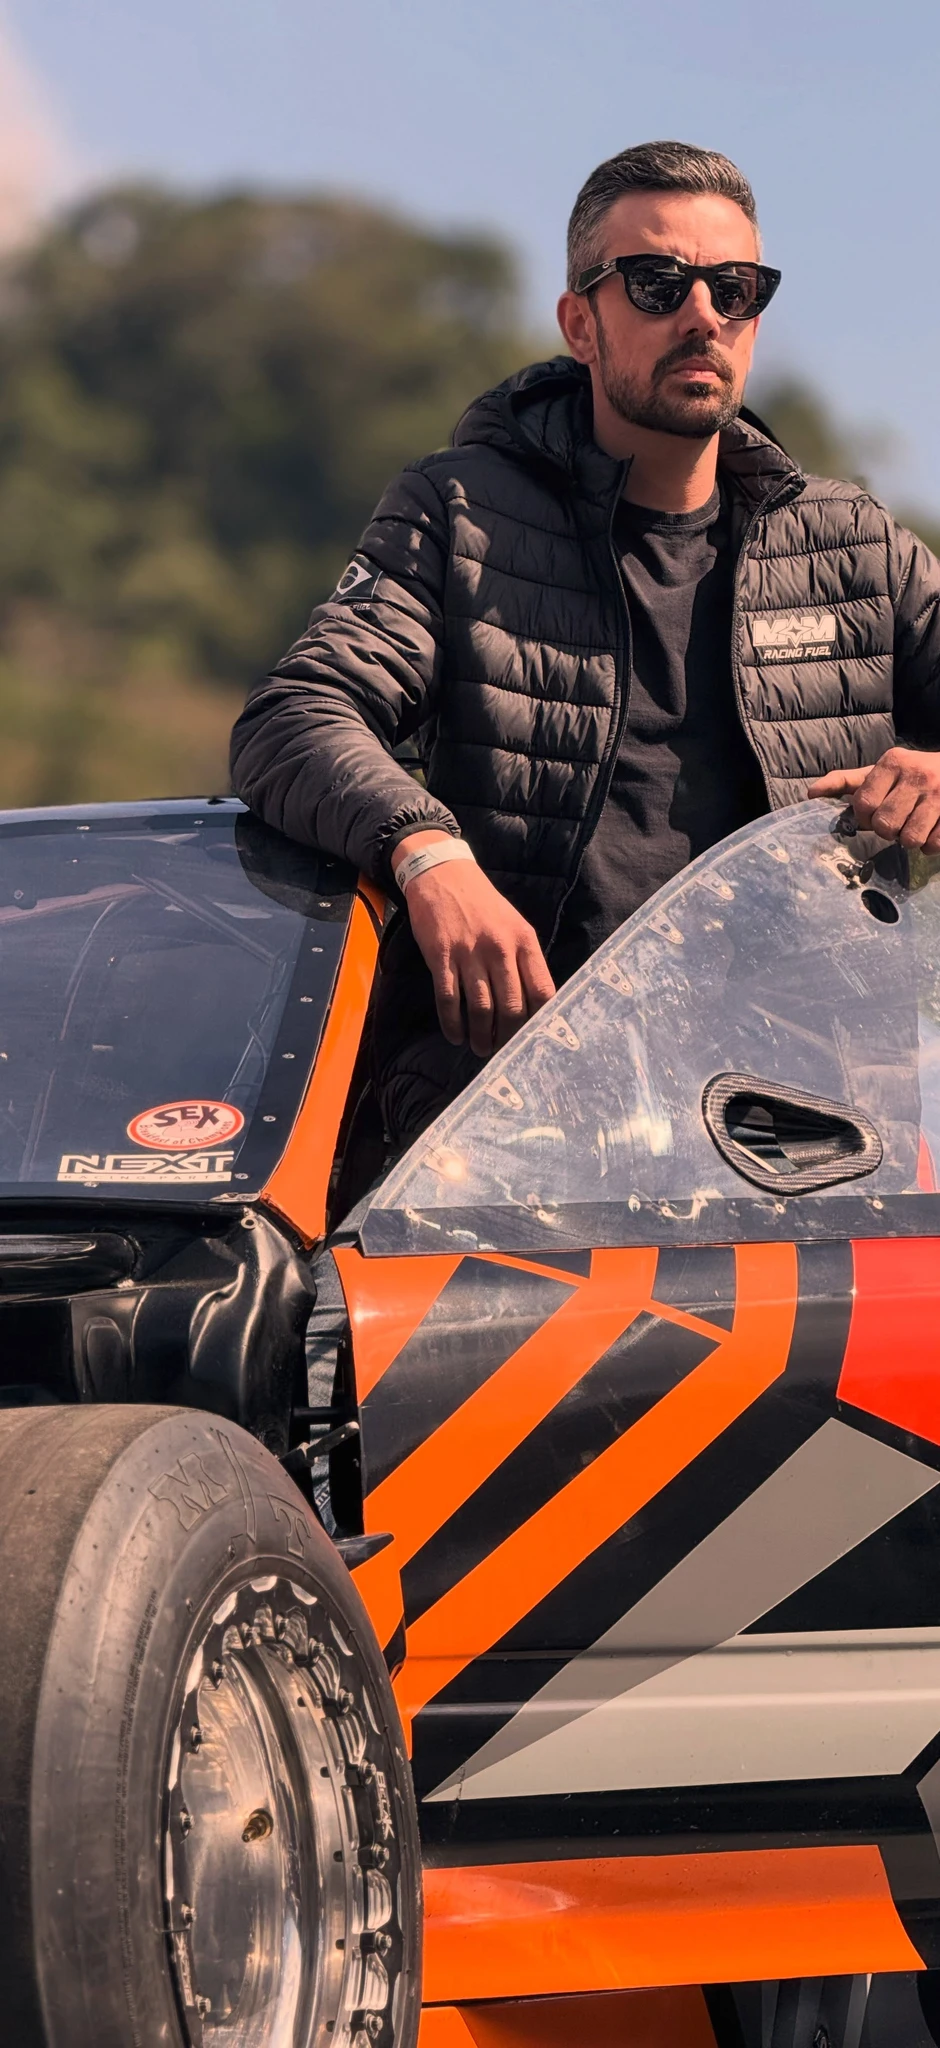
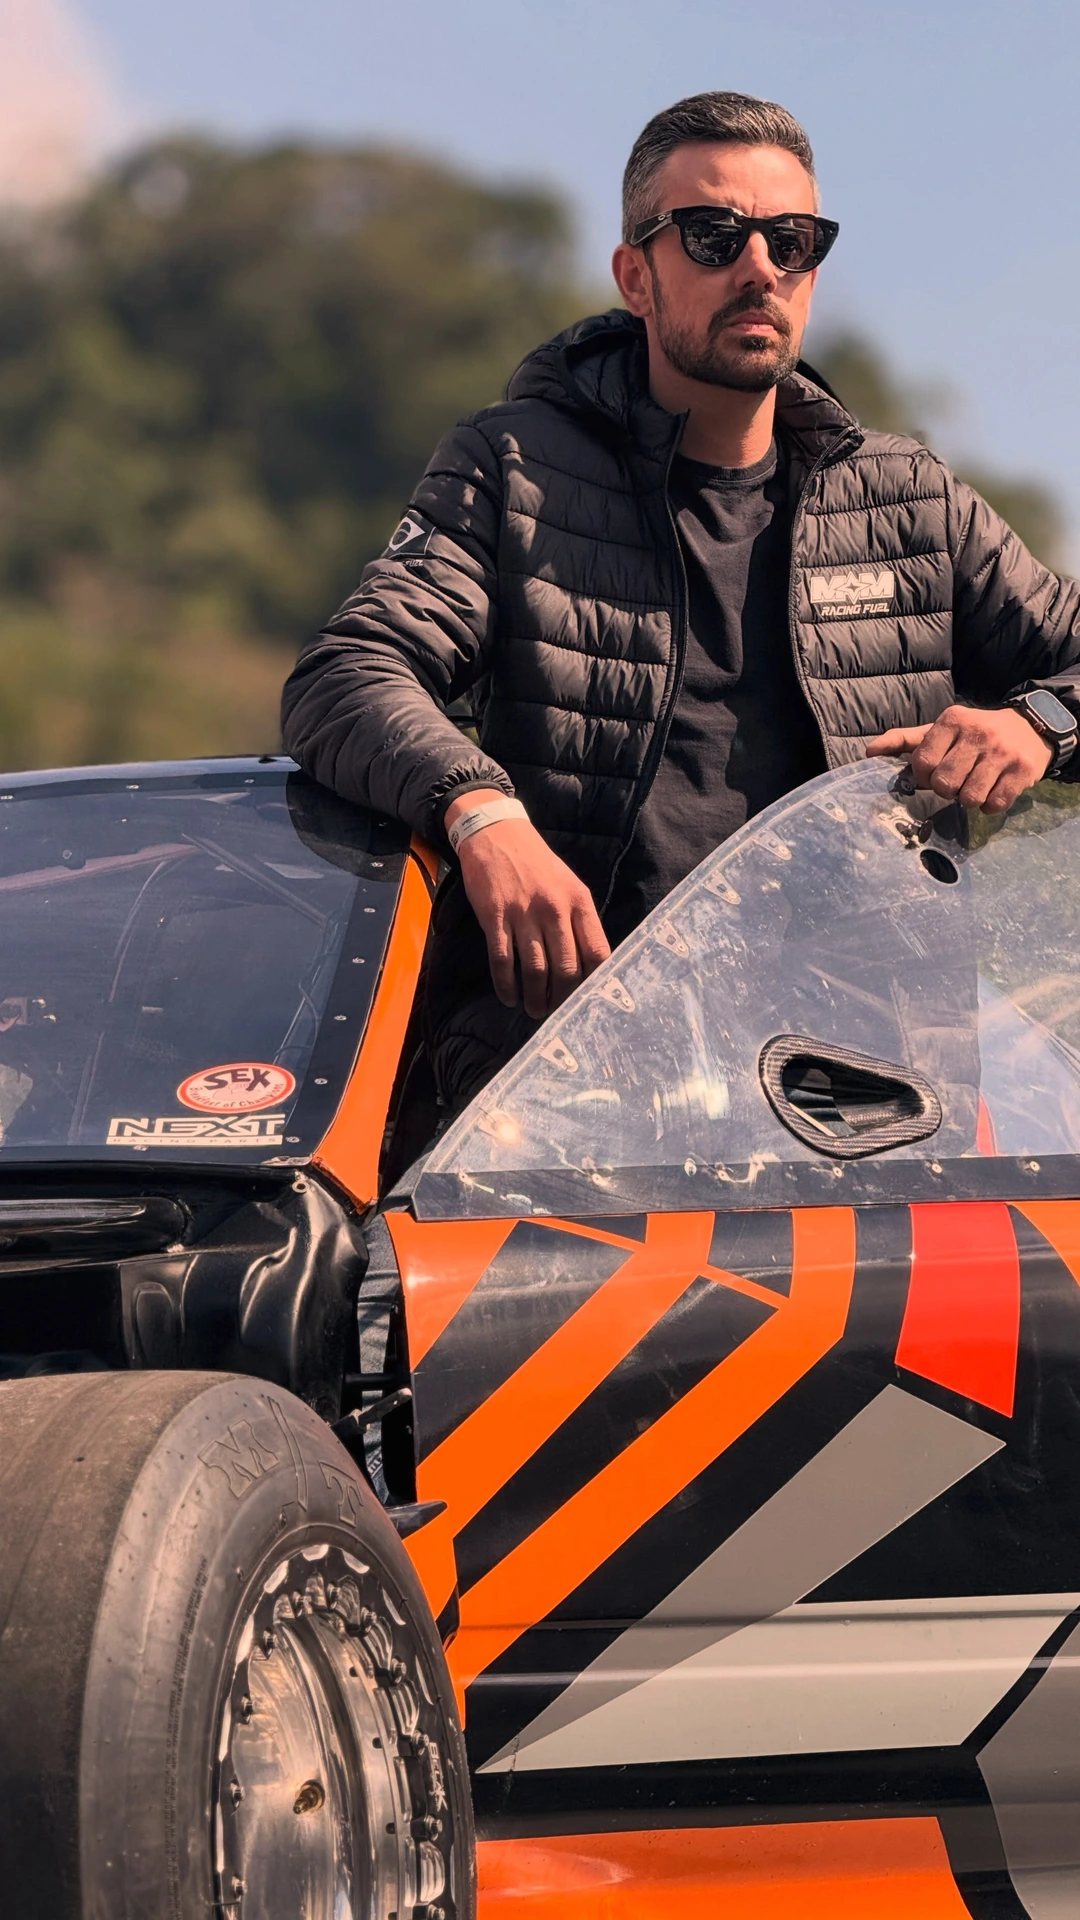
fix: remove title image with face cutouts, render pure racing typography, fix card font and pilot background framing

diff --git a/src/app/mc177usa/page.tsx b/src/app/mc177usa/page.tsx
@@ -303,20 +303,20 @@ export default function MaltonUsaPage() {
             {/* ========================================================= */}
             <section className="relative min-h-screen flex flex-col justify-between overflow-hidden border-b border-[#1c1c1c] pt-8 sm:pt-12 pb-10 sm:pb-14">
                 
-                {/* Foto do Malton com o Civic no fundo - Piloto bem visível */}
+                {/* Foto limpa e original do Malton com o Civic no fundo - Rosto 100% nítido e sem recortes */}
                 <div className="absolute inset-0 z-0">
                     <Image
                         src="/malton/hero-clean-mobile.webp"
                         alt="Malton Coimbra e o Civic 177 - USA Tour 2027"
                         fill
                         priority
-                        className="object-cover object-top sm:object-[center_12%] filter contrast-110 brightness-95"
+                        className="object-cover object-[75%_top] sm:object-[center_12%] filter contrast-105 brightness-90"
                     />
 
-                    {/* Vinhetas e Degradês de alto contraste para legibilidade impecável */}
-                    <div className="absolute inset-0 bg-gradient-to-b from-black/70 via-transparent to-black z-10" />
-                    <div className="absolute inset-0 bg-gradient-to-t from-black via-black/90 to-transparent z-10" />
-                    <div className="absolute inset-0 bg-black/40 z-10" />
+                    {/* Vinhetas laterais e inferiores para contraste impecável sem manchar o piloto */}
+                    <div className="absolute inset-0 bg-gradient-to-r from-black/95 via-black/60 to-transparent z-10 w-full sm:w-4/5" />
+                    <div className="absolute inset-0 bg-gradient-to-t from-black via-black/85 to-transparent z-10 top-1/4" />
+                    <div className="absolute top-0 inset-x-0 h-28 bg-gradient-to-b from-black/80 to-transparent z-10" />
                 </div>
 
                 {/* Conteúdo Centralizado (Opção B - Perfeito no Mobile e Desktop) */}
@@ -328,9 +328,9 @@ export default function MaltonUsaPage() {
                             <div className="flex items-center gap-1.5 text-xs sm:text-sm font-racing font-black tracking-widest text-white uppercase">
                                 <span>🏁</span>
                                 <span>USA TOUR</span>
-                                <span className="text-mm-orange">2027</span>
+                                <span className="text-mm-orange font-black">2027</span>
                             </div>
-                            <span className="text-[10px] sm:text-xs font-tactical text-gray-400 tracking-[0.2em] block uppercase mt-0.5">
+                            <span className="text-[10px] sm:text-xs font-tactical text-gray-400 tracking-[0.25em] block uppercase mt-0.5">
                                 CARRO 177
                             </span>
                         </div>
@@ -343,31 +343,44 @@ export default function MaltonUsaPage() {
                         </div>
                     </div>
 
-                    {/* Logo & Piloto Lockup */}
+                    {/* Logo & Piloto Lockup em Tipografia Pura de Corrida */}
                     <motion.div
                         initial={{ opacity: 0, y: 15 }}
                         animate={{ opacity: 1, y: 0 }}
                         transition={{ duration: 0.6 }}
                         className="mb-4"
                     >
-                        {/* Logo Artwork Oficial */}
-                        <div className="relative w-full max-w-[340px] sm:max-w-[380px]">
-                            <Image
-                                src="/malton/title-malton-177.png"
-                                alt="Malton Coimbra 177 - Built To Go Faster"
-                                width={440}
-                                height={210}
-                                priority
-                                className="w-full h-auto drop-shadow-[0_4px_25px_rgba(0,0,0,0.95)]"
-                            />
+                        {/* Lettering Brutalista de Arrancada */}
+                        <div className="inline-block">
+                            <h1 className="font-racing font-black uppercase italic leading-[0.88] tracking-tight">
+                                <span className="text-white text-5xl sm:text-6xl block drop-shadow-[0_2px_15px_rgba(0,0,0,0.95)]">
+                                    MALTON
+                                </span>
+                                <span className="text-mm-orange text-5xl sm:text-6xl block drop-shadow-[0_2px_15px_rgba(255,107,0,0.4)]">
+                                    COIMBRA
+                                </span>
+                            </h1>
+                            <div className="flex items-center gap-3 mt-1.5">
+                                <span className="font-racing font-black italic text-white text-6xl sm:text-7xl leading-none drop-shadow-[0_2px_20px_rgba(255,107,0,0.5)] [text-shadow:_0_0_20px_rgba(255,107,0,0.5)]">
+                                    177
+                                </span>
+                                <div className="flex flex-col justify-center">
+                                    <span className="font-racing font-black italic text-[11px] sm:text-xs text-gray-200 tracking-[0.2em] uppercase leading-tight border-b-2 border-mm-orange pb-0.5">
+                                        BUILT TO GO FASTER
+                                    </span>
+                                    <span className="font-tactical font-bold text-[9px] text-mm-orange tracking-widest uppercase mt-0.5">
+                                        RECORDISTA MUNDIAL
+                                    </span>
+                                </div>
+                            </div>
                         </div>
 
                         {/* World Record / All Motor Nitromethane */}
-                        <div className="mt-3">
+                        <div className="mt-4">
                             <h2 className="text-sm sm:text-base font-racing font-black text-white tracking-[0.25em] uppercase leading-none">
                                 WORLD RECORD
                             </h2>
-                            <p className="text-xs sm:text-sm font-racing font-bold text-mm-orange tracking-[0.15em] uppercase mt-0.5">
+                            <p className="text-xs sm:text-sm font-racing font-bold text-mm-orange tracking-[0.18em] uppercase mt-1">
                                 ALL MOTOR • NITROMETHANE
                             </p>
                         </div>
@@ -393,13 +406,13 @@ export default function MaltonUsaPage() {
                         initial={{ opacity: 0, y: 20 }}
                         animate={{ opacity: 1, y: 0 }}
                         transition={{ duration: 0.6, delay: 0.2 }}
-                        className="bg-black/85 border border-mm-orange p-4 mb-4 backdrop-blur-md tactical-notch shadow-[0_0_20px_rgba(255,107,0,0.2)]"
+                        className="bg-black/90 border border-mm-orange p-4 mb-4 backdrop-blur-md tactical-notch shadow-[0_0_25px_rgba(255,107,0,0.25)]"
                     >
-                        <div className="flex items-start justify-between gap-3 mb-2">
+                        <div className="flex items-start justify-between gap-3 mb-2.5">
                             <div className="flex items-center gap-2">
                                 <span className="text-base">🏁</span>
-                                <h3 className="font-marker text-mm-orange text-base sm:text-lg tracking-wide uppercase">
-                                    FAÇA PARTE DA USA TOUR 2027
+                                <h3 className="font-racing font-black italic text-mm-orange text-lg sm:text-xl tracking-wide uppercase leading-none">
+                                    FAÇA PARTE DA USA TOUR <span className="text-white">2027</span>
                                 </h3>
                             </div>
                             <div className="flex flex-col items-end flex-shrink-0">

diff --git a/mc177usa.html b/mc177usa.html
@@ -1030,35 +1030,56 @@
         </div>
       </div>
 
-      <!-- Logo & Piloto Lockup -->
+      <!-- Logo & Piloto Lockup em Tipografia Pura de Corrida -->
       <div style="margin-bottom: 16px;">
-        <div style="max-width: 360px; width: 100%;">
-          <img src="../public/malton/title-malton-177.png" alt="Malton Coimbra 177 - Built To Go Faster" style="width: 100%; height: auto; display: block; filter: drop-shadow(0 4px 25px rgba(0,0,0,0.95));" />
+        <div style="display: inline-block;">
+          <h1 class="font-racing" style="font-weight: 900; text-transform: uppercase; font-style: italic; line-height: 0.88; letter-spacing: -0.02em;">
+            <span style="color: #FFF; font-size: 52px; display: block; filter: drop-shadow(0 2px 15px rgba(0,0,0,0.95));">
+              MALTON
+            </span>
+            <span style="color: var(--orange); font-size: 52px; display: block; filter: drop-shadow(0 2px 15px rgba(255,107,0,0.4));">
+              COIMBRA
+            </span>
+          </h1>
+          <div style="display: flex; align-items: center; gap: 12px; margin-top: 6px;">
+            <span class="font-racing" style="font-weight: 900; font-style: italic; color: #FFF; font-size: 64px; line-height: 1; text-shadow: 0 0 20px rgba(255,107,0,0.5);">
+              177
+            </span>
+            <div style="display: flex; flex-direction: column; justify-content: center;">
+              <span class="font-racing" style="font-weight: 900; font-style: italic; font-size: 11px; color: #E5E7EB; letter-spacing: 0.2em; text-transform: uppercase; border-bottom: 2px solid var(--orange); padding-bottom: 2px;">
+                BUILT TO GO FASTER
+              </span>
+              <span class="font-tactical" style="font-weight: 700; font-size: 9px; color: var(--orange); letter-spacing: 0.15em; text-transform: uppercase; margin-top: 2px;">
+                RECORDISTA MUNDIAL
+              </span>
+            </div>
+          </div>
         </div>
-        <div style="margin-top: 12px;">
-          <div style="font-size: 14px; font-weight: 900; color: #FFF; letter-spacing: 0.25em; text-transform: uppercase;">
+
+        <div style="margin-top: 14px;">
+          <div class="font-racing" style="font-size: 14px; font-weight: 900; color: #FFF; letter-spacing: 0.25em; text-transform: uppercase;">
             WORLD RECORD
           </div>
-          <div style="font-size: 12px; font-weight: 700; color: var(--orange); letter-spacing: 0.15em; text-transform: uppercase; margin-top: 2px;">
+          <div class="font-racing" style="font-size: 12px; font-weight: 900; color: var(--orange); letter-spacing: 0.18em; text-transform: uppercase; margin-top: 2px;">
             ALL MOTOR • NITROMETHANE
           </div>
         </div>
       </div>
 
       <!-- Descrição Oficial -->
-      <div style="font-size: 13px; text-transform: uppercase; letter-spacing: 0.05em; color: #E5E7EB; line-height: 1.4; margin-bottom: 20px;">
+      <div class="font-racing" style="font-size: 13px; text-transform: uppercase; letter-spacing: 0.05em; color: #E5E7EB; line-height: 1.4; margin-bottom: 20px;">
         <p style="font-weight: 800; color: #FFF;">O HONDA ALL MOTOR MAIS RÁPIDO DO MUNDO.</p>
         <p>PILOTADO, DESENVOLVIDO E CONSTRUÍDO POR MALTON COIMBRA.</p>
         <p>MAIS DE 90% DE NITROMETANO. UM PROJETO BRASILEIRO RUMO AOS <strong style="color: var(--orange); font-weight: 900;">7 SEGUNDOS</strong> NOS EUA.</p>
       </div>
 
       <!-- Caixa Tática: FAÇA PARTE DA USA TOUR 2027 -->
-      <div class="tactical-notch" style="background: rgba(0,0,0,0.85); border: 1px solid var(--orange); padding: 16px; margin-bottom: 16px; backdrop-filter: blur(8px); box-shadow: 0 0 20px rgba(255,107,0,0.2);">
-        <div style="display: flex; justify-content: space-between; align-items: flex-start; margin-bottom: 8px;">
+      <div class="tactical-notch" style="background: rgba(0,0,0,0.9); border: 1px solid var(--orange); padding: 16px; margin-bottom: 16px; backdrop-filter: blur(8px); box-shadow: 0 0 25px rgba(255,107,0,0.25);">
+        <div style="display: flex; justify-content: space-between; align-items: flex-start; margin-bottom: 10px;">
           <div style="display: flex; align-items: center; gap: 8px;">
             <span style="font-size: 16px;">🏁</span>
-            <h3 class="font-marker" style="color: var(--orange); font-size: 16px; text-transform: uppercase; letter-spacing: 0.05em;">
-              FAÇA PARTE DA USA TOUR 2027
+            <h3 class="font-racing" style="color: var(--orange); font-size: 18px; font-weight: 900; font-style: italic; text-transform: uppercase; letter-spacing: 0.05em; line-height: 1;">
+              FAÇA PARTE DA USA TOUR <span style="color: #FFF;">2027</span>
             </h3>
           </div>
           <div style="display: flex; flex-direction: column; align-items: flex-end; flex-shrink: 0;">
@@ -1071,7 +1092,7 @@
             </svg>
           </div>
         </div>
-        <p style="font-size: 12px; color: #D1D5DB; text-transform: uppercase; letter-spacing: 0.05em; line-height: 1.4;">
+        <p class="font-racing" style="font-size: 12px; color: #D1D5DB; text-transform: uppercase; letter-spacing: 0.05em; line-height: 1.4;">
           COMPRE A CAMISETA OFICIAL E AJUDE A LEVAR ESTE PROJETO BRASILEIRO PARA AS PISTAS DOS ESTADOS UNIDOS.
         </p>
       </div>

diff --git a/mc177usa/index.html b/mc177usa/index.html
@@ -1030,35 +1030,56 @@
         </div>
       </div>
 
-      <!-- Logo & Piloto Lockup -->
+      <!-- Logo & Piloto Lockup em Tipografia Pura de Corrida -->
       <div style="margin-bottom: 16px;">
-        <div style="max-width: 360px; width: 100%;">
-          <img src="../public/malton/title-malton-177.png" alt="Malton Coimbra 177 - Built To Go Faster" style="width: 100%; height: auto; display: block; filter: drop-shadow(0 4px 25px rgba(0,0,0,0.95));" />
+        <div style="display: inline-block;">
+          <h1 class="font-racing" style="font-weight: 900; text-transform: uppercase; font-style: italic; line-height: 0.88; letter-spacing: -0.02em;">
+            <span style="color: #FFF; font-size: 52px; display: block; filter: drop-shadow(0 2px 15px rgba(0,0,0,0.95));">
+              MALTON
+            </span>
+            <span style="color: var(--orange); font-size: 52px; display: block; filter: drop-shadow(0 2px 15px rgba(255,107,0,0.4));">
+              COIMBRA
+            </span>
+          </h1>
+          <div style="display: flex; align-items: center; gap: 12px; margin-top: 6px;">
+            <span class="font-racing" style="font-weight: 900; font-style: italic; color: #FFF; font-size: 64px; line-height: 1; text-shadow: 0 0 20px rgba(255,107,0,0.5);">
+              177
+            </span>
+            <div style="display: flex; flex-direction: column; justify-content: center;">
+              <span class="font-racing" style="font-weight: 900; font-style: italic; font-size: 11px; color: #E5E7EB; letter-spacing: 0.2em; text-transform: uppercase; border-bottom: 2px solid var(--orange); padding-bottom: 2px;">
+                BUILT TO GO FASTER
+              </span>
+              <span class="font-tactical" style="font-weight: 700; font-size: 9px; color: var(--orange); letter-spacing: 0.15em; text-transform: uppercase; margin-top: 2px;">
+                RECORDISTA MUNDIAL
+              </span>
+            </div>
+          </div>
         </div>
-        <div style="margin-top: 12px;">
-          <div style="font-size: 14px; font-weight: 900; color: #FFF; letter-spacing: 0.25em; text-transform: uppercase;">
+
+        <div style="margin-top: 14px;">
+          <div class="font-racing" style="font-size: 14px; font-weight: 900; color: #FFF; letter-spacing: 0.25em; text-transform: uppercase;">
             WORLD RECORD
           </div>
-          <div style="font-size: 12px; font-weight: 700; color: var(--orange); letter-spacing: 0.15em; text-transform: uppercase; margin-top: 2px;">
+          <div class="font-racing" style="font-size: 12px; font-weight: 900; color: var(--orange); letter-spacing: 0.18em; text-transform: uppercase; margin-top: 2px;">
             ALL MOTOR • NITROMETHANE
           </div>
         </div>
       </div>
 
       <!-- Descrição Oficial -->
-      <div style="font-size: 13px; text-transform: uppercase; letter-spacing: 0.05em; color: #E5E7EB; line-height: 1.4; margin-bottom: 20px;">
+      <div class="font-racing" style="font-size: 13px; text-transform: uppercase; letter-spacing: 0.05em; color: #E5E7EB; line-height: 1.4; margin-bottom: 20px;">
         <p style="font-weight: 800; color: #FFF;">O HONDA ALL MOTOR MAIS RÁPIDO DO MUNDO.</p>
         <p>PILOTADO, DESENVOLVIDO E CONSTRUÍDO POR MALTON COIMBRA.</p>
         <p>MAIS DE 90% DE NITROMETANO. UM PROJETO BRASILEIRO RUMO AOS <strong style="color: var(--orange); font-weight: 900;">7 SEGUNDOS</strong> NOS EUA.</p>
       </div>
 
       <!-- Caixa Tática: FAÇA PARTE DA USA TOUR 2027 -->
-      <div class="tactical-notch" style="background: rgba(0,0,0,0.85); border: 1px solid var(--orange); padding: 16px; margin-bottom: 16px; backdrop-filter: blur(8px); box-shadow: 0 0 20px rgba(255,107,0,0.2);">
-        <div style="display: flex; justify-content: space-between; align-items: flex-start; margin-bottom: 8px;">
+      <div class="tactical-notch" style="background: rgba(0,0,0,0.9); border: 1px solid var(--orange); padding: 16px; margin-bottom: 16px; backdrop-filter: blur(8px); box-shadow: 0 0 25px rgba(255,107,0,0.25);">
+        <div style="display: flex; justify-content: space-between; align-items: flex-start; margin-bottom: 10px;">
           <div style="display: flex; align-items: center; gap: 8px;">
             <span style="font-size: 16px;">🏁</span>
-            <h3 class="font-marker" style="color: var(--orange); font-size: 16px; text-transform: uppercase; letter-spacing: 0.05em;">
-              FAÇA PARTE DA USA TOUR 2027
+            <h3 class="font-racing" style="color: var(--orange); font-size: 18px; font-weight: 900; font-style: italic; text-transform: uppercase; letter-spacing: 0.05em; line-height: 1;">
+              FAÇA PARTE DA USA TOUR <span style="color: #FFF;">2027</span>
             </h3>
           </div>
           <div style="display: flex; flex-direction: column; align-items: flex-end; flex-shrink: 0;">
@@ -1071,7 +1092,7 @@
             </svg>
           </div>
         </div>
-        <p style="font-size: 12px; color: #D1D5DB; text-transform: uppercase; letter-spacing: 0.05em; line-height: 1.4;">
+        <p class="font-racing" style="font-size: 12px; color: #D1D5DB; text-transform: uppercase; letter-spacing: 0.05em; line-height: 1.4;">
           COMPRE A CAMISETA OFICIAL E AJUDE A LEVAR ESTE PROJETO BRASILEIRO PARA AS PISTAS DOS ESTADOS UNIDOS.
         </p>
       </div>
